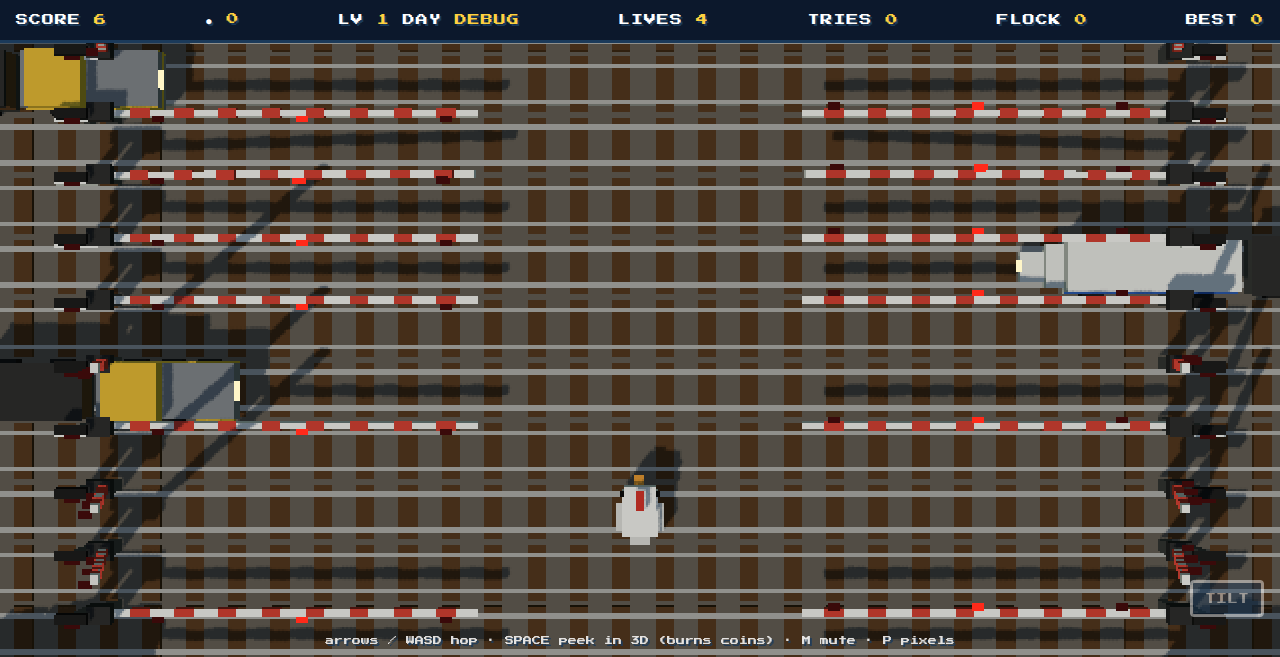
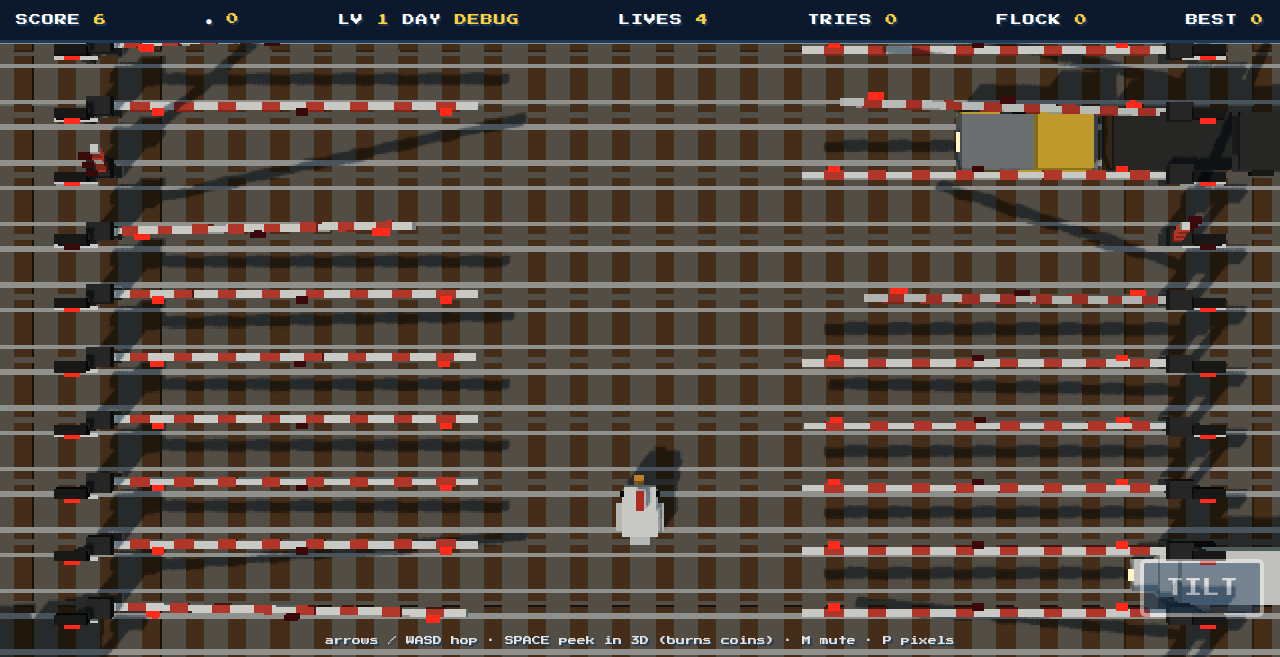
Crossing gates on opposite sides of the track, mirrored for left-hand-traffic locales

diff --git a/src/scenarios/rail.js b/src/scenarios/rail.js
@@ -10,6 +10,7 @@ import { sfx } from '../sfx.js';
 import { rand, randInt, pick, damp } from '../util.js';
 import { traffic } from '../tuning.js';
 import * as THREE from 'three';
+import { LEFT_HAND } from '../locale.js';
 
 registerDeath('train', { anim: 'flat', title: 'CHOO CHOO', sfx: 'splat' });
 
@@ -54,9 +55,13 @@ export default {
     Object.assign(lane.data, { train: t, wait: rand(3, 8), state: 'idle', puffs: [], puffClock: 0 });
     if (gauntlet) lane.bonusDrop();
     lane.data.signals = [-W - 1, W + 1].map((x) => { const s = lane.add(makeRailSignal(), x); s.position.z = 0.6; return s; });
+    // Each gate guards the lane approaching the track: with right-hand traffic
+    // the near-side (bottom) gate is on the right and the far-side gate on the
+    // left. Left-hand-traffic locales mirror that.
     lane.data.gates = [-1, 1].map((side) => {
       const g = lane.add(makeGate(GATE_ARM), side * (W + 0.6));
-      g.position.z = 0.55;
+      const nearSide = LEFT_HAND ? side < 0 : side > 0;
+      g.position.z = nearSide ? 0.55 : -0.55;
       if (side > 0) g.rotation.y = Math.PI;       // arm swings toward the centre from each side
       return g;
     });

diff --git a/src/locale.js b/src/locale.js
@@ -1,0 +1,19 @@
+// Which side of the road the player's locale drives on. Read once at load
+// from the browser's language tag; regions that drive on the left flip the
+// crossing-gate layout. Defaults to right-hand traffic.
+const LEFT = new Set([
+  'GB', 'IE', 'AU', 'NZ', 'JP', 'IN', 'ZA', 'MT', 'CY', 'HK', 'SG', 'MY', 'TH', 'ID', 'KE', 'PK', 'LK', 'BD', 'NP',
+  'JM', 'TT', 'BB', 'BS', 'BW', 'ZW', 'ZM', 'MZ', 'NA', 'MW', 'UG', 'TZ', 'MU', 'FJ', 'PG', 'BN', 'GY', 'SR', 'BM',
+  'KY', 'VG', 'AI', 'MS', 'TC', 'GD', 'LC', 'VC', 'KN', 'AG', 'DM', 'MO', 'TL', 'LS', 'SZ', 'GG', 'JE', 'IM', 'CK',
+  'NR', 'KI', 'SB', 'TO', 'TV', 'WS', 'NU', 'TK', 'PN', 'SH', 'FK', 'GS', 'BT', 'MV', 'SC',
+]);
+
+export function leftHandTraffic() {
+  try {
+    const tag = navigator.language || Intl.DateTimeFormat().resolvedOptions().locale || 'en-US';
+    const region = new Intl.Locale(tag).maximize().region;
+    return LEFT.has(region);
+  } catch { return false; }
+}
+
+export const LEFT_HAND = leftHandTraffic();
